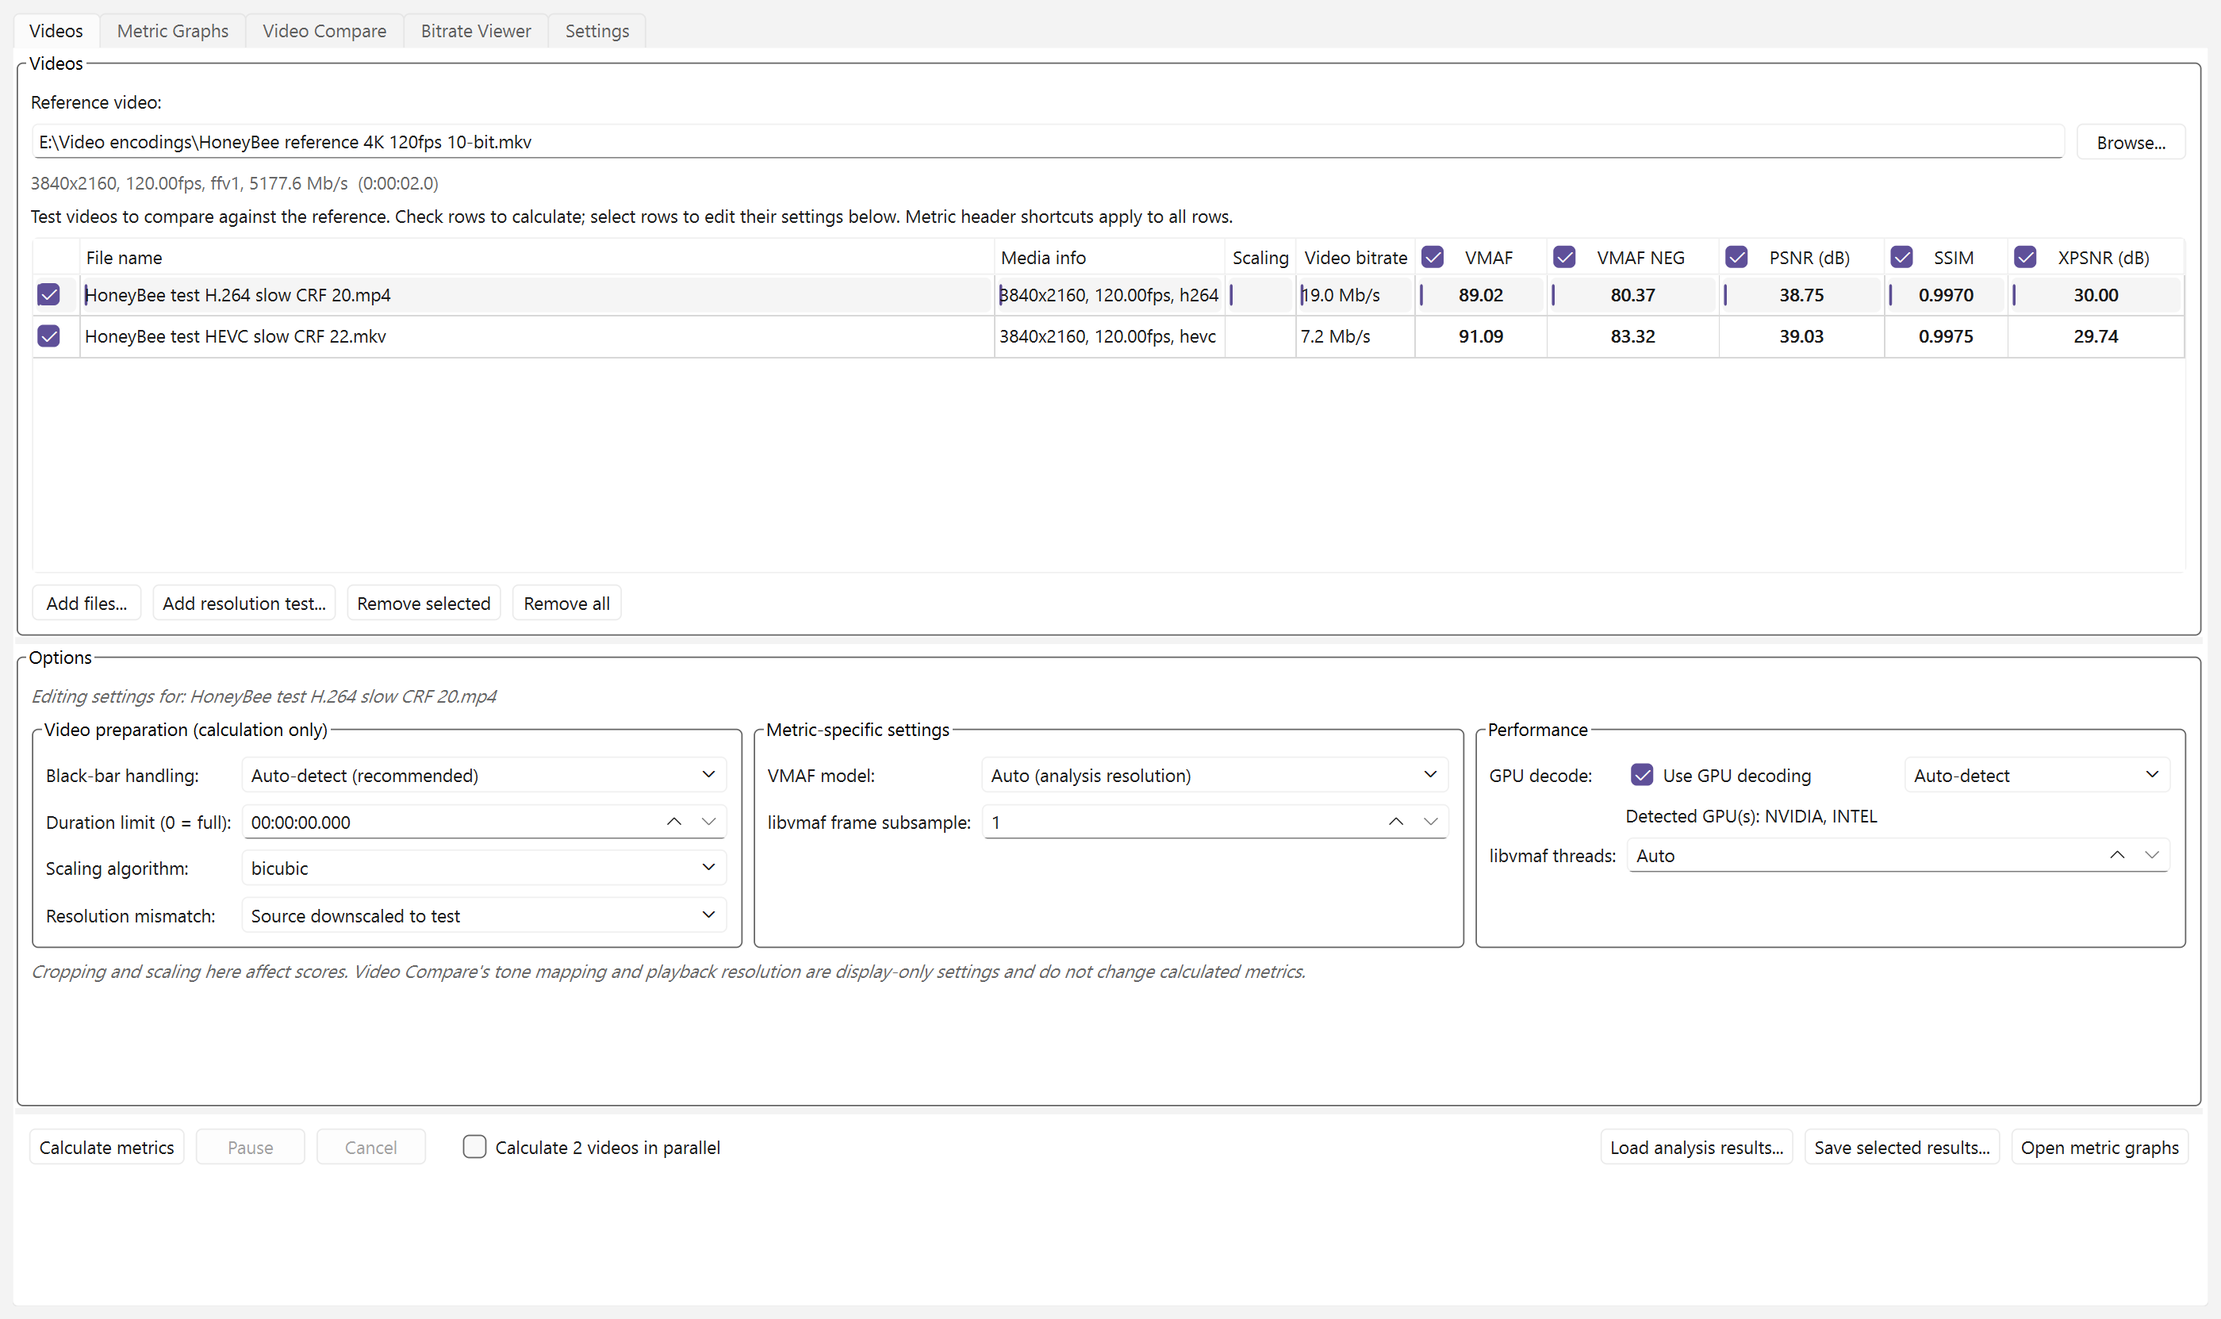
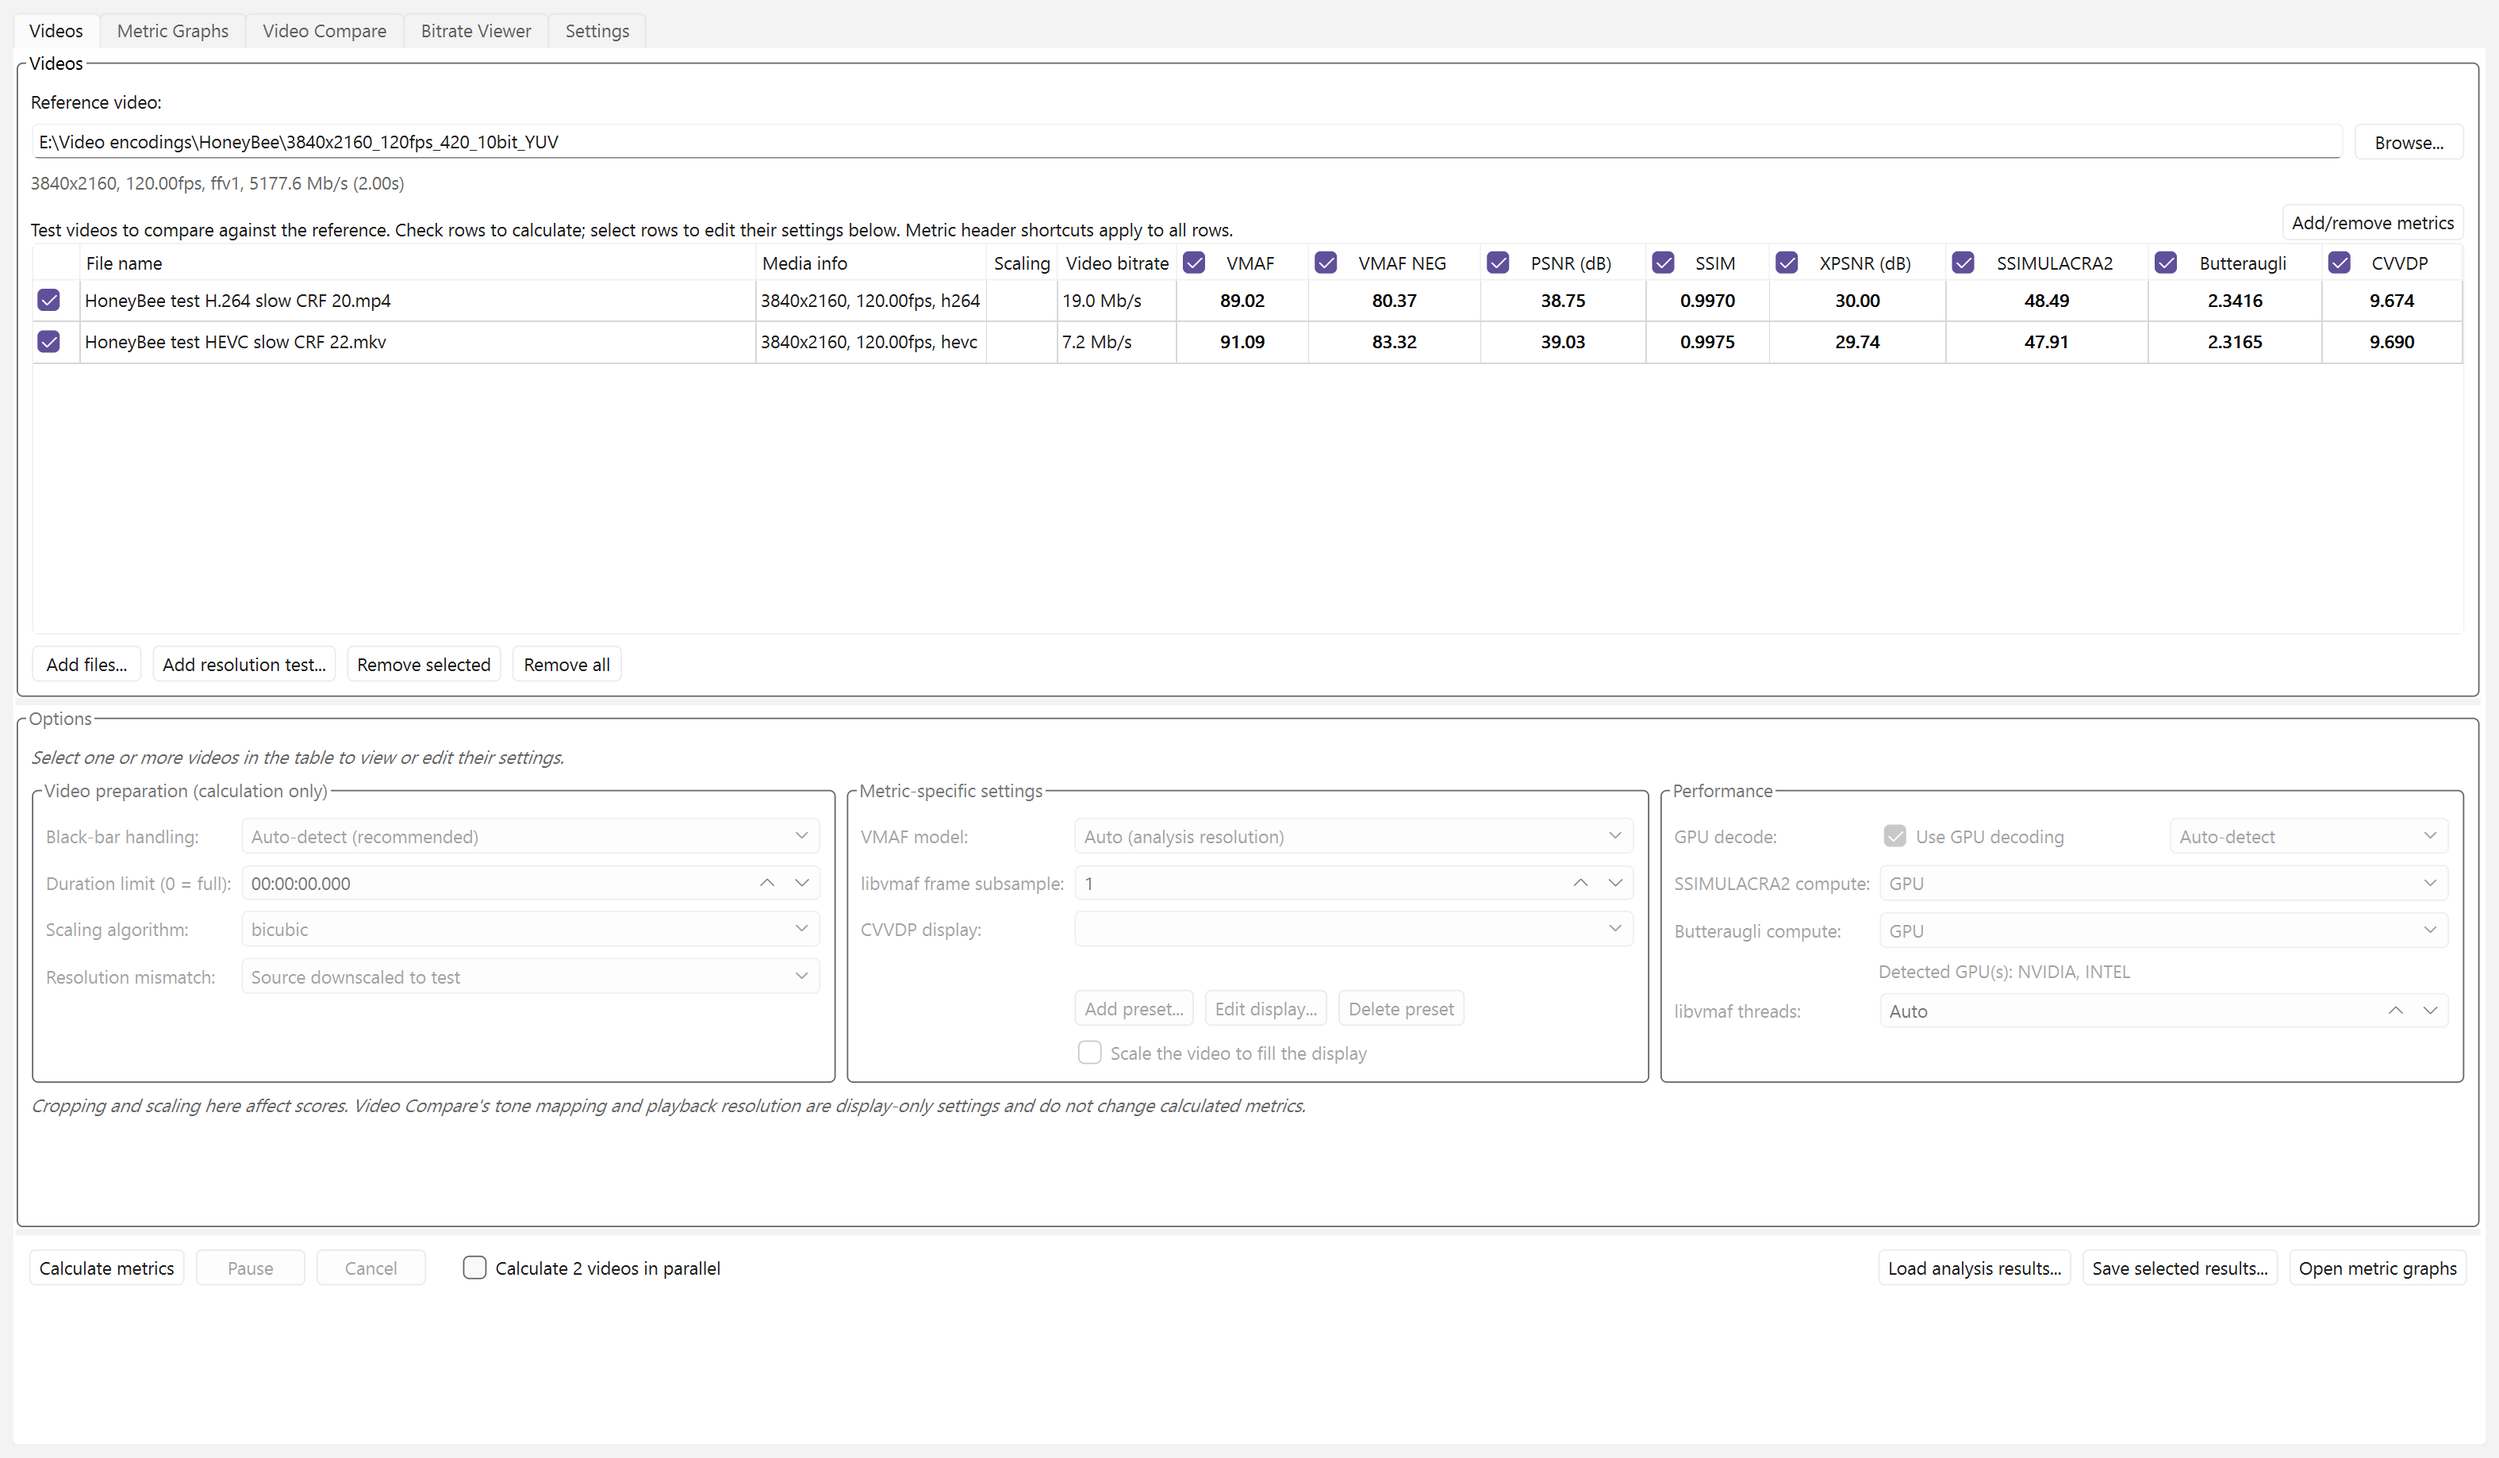
Prepare v1.2 release documentation
Refresh the v1.2 changelog to describe Vship, the three new metrics, CPU fallback behavior, CVVDP per-second scoring, and the metric picker. Update the landing-page screenshots with real HoneyBee results and a graph hover readout while keeping the screenshots local for the release review.

diff --git a/README.md b/README.md
@@ -4,11 +4,13 @@ A Windows desktop app for measuring and comparing video encode quality.
 
 ## Features
 
-- Calculate VMAF, VMAF NEG, PSNR, SSIM, XPSNR, SSIMULACRA2, and Butteraugli
-  for multiple test videos.
+- Calculate VMAF, VMAF NEG, PSNR, SSIM, XPSNR, SSIMULACRA2, Butteraugli, and
+  CVVDP for multiple test videos.
 - Accelerate SSIMULACRA2 and Butteraugli with Vship on supported NVIDIA/AMD
   GPUs; automatically use the bundled libjxl CPU tools when GPU scoring is
   unavailable.
+- Calculate CVVDP on the GPU and configure the modeled display and viewing
+  conditions; inspect its per-second JOD curve and whole-video score.
 - VMAF v0.61 and v1 models for standard, phone, 4K, and HFR viewing scenarios.
 - Compare metric curves, statistics, and per-frame scores.
 - Instantly switch between source and encoded video for visual A/B comparisons, both frame by frame and during playback.
@@ -125,21 +127,12 @@ Third-party components retain their own licenses; see
 
 ## v1.2 changelog
 
-- Added SSIMULACRA2 and Butteraugli. They are calculated on the GPU with the bundled Vship 5.1.1 (NVIDIA CUDA / AMD HIP), or on the CPU with the bundled libjxl 0.12.0 tools, and fall back to the CPU automatically when no supported GPU is found.
-- Added a GPU/CPU choice for SSIMULACRA2 and Butteraugli in the Options panel. The Settings tab can tick either metric by default for new videos, and the GPU/CPU choice is remembered across restarts.
-- GPU SSIMULACRA2/Butteraugli scoring runs at about 73-88 fps for a 4K pair, including VVC test videos.
-- FFmpeg metrics (VMAF, PSNR, SSIM, XPSNR) and SSIMULACRA2/Butteraugli are calculated at the same time for each video. When two videos are calculated in parallel, only one GPU pass runs at a time.
-- Added a warning, with an estimate of the temporary disk space needed, before calculating SSIMULACRA2 or Butteraugli on the CPU for videos longer than 10 minutes.
-- Added an "Add/remove metrics" button to the test-video table's corner to show or hide metric columns. Hidden metrics are not calculated.
-- Adding a metric to a finished video calculates only that metric instead of recalculating the ones already saved.
-- SSIMULACRA2 and Butteraugli show "n/a" on resolution round-trip rows instead of failing the whole row.
-- Butteraugli graphs are drawn with 0 (best) at the top, the statistics table shows its worst frames ("10% High" ... "0.1% High"), and hovering snaps to its worst frames.
-- The hover and Go-to-frame readout in Metric Graphs lists every calculated metric for that frame after a "|".
-- Black-bar detection samples the whole video instead of only the duration limit. It uses at most two decoders across the app: about 2.4 GB of VRAM instead of 6.2 GB for a 4K pair on the GPU.
-- Lowered the CPU used to feed GPU SSIMULACRA2/Butteraugli by about half, with identical scores.
-- Fixed saved SSIMULACRA2/Butteraugli and VMAF scores disappearing when reloading a result whose metrics cover different frame counts.
-- Fixed a video set to CPU showing a cached GPU SSIMULACRA2/Butteraugli score.
-- Fixed GPU SSIMULACRA2/Butteraugli runs hanging when the GPU fails on the first frames; they now fall back to the CPU.
-- Fixed the duration limit applying to only one of the two videos for CPU SSIMULACRA2/Butteraugli.
-- Fixed the Butteraugli graph labelling its zero gridline "-0".
-- Show the application version in the window title: VideoMetricsLab 1.2.
+- Added GPU support for ColorVideo VDP, SSIMULACRA2, and Butteraugli with
+  Vship integration.
+- Added CPU fallback for SSIMULACRA2 and Butteraugli with libjxl. ColorVideo
+  VDP has no CPU fallback.
+- Added CVVDP per-second scores and graphing alongside its whole-video score.
+- Added an Add/remove metrics control to the Videos tab so metric columns can
+  be shown or hidden, and new metrics can be added to completed analyses
+  without recalculating existing results.
+- Included various small under-the-hood bug fixes and reliability improvements.

diff --git a/CHANGELOG.md b/CHANGELOG.md
@@ -2,46 +2,15 @@
 
 ## v1.2
 
-- Added SSIMULACRA2 and Butteraugli. They are calculated on the GPU with the
-  bundled Vship 5.1.1 (NVIDIA CUDA / AMD HIP), or on the CPU with the bundled
-  libjxl 0.12.0 tools, and fall back to the CPU automatically when no supported
-  GPU is found.
-- Added a GPU/CPU choice for SSIMULACRA2 and Butteraugli in the Options panel.
-  The Settings tab can tick either metric by default for new videos, and the
-  GPU/CPU choice is remembered across restarts.
-- GPU SSIMULACRA2/Butteraugli scoring runs at about 73-88 fps for a 4K pair,
-  including VVC test videos.
-- FFmpeg metrics (VMAF, PSNR, SSIM, XPSNR) and SSIMULACRA2/Butteraugli are
-  calculated at the same time for each video. When two videos are calculated in
-  parallel, only one GPU pass runs at a time.
-- Added a warning, with an estimate of the temporary disk space needed, before
-  calculating SSIMULACRA2 or Butteraugli on the CPU for videos longer than 10
-  minutes.
-- Added an "Add/remove metrics" button to the test-video table's corner to show
-  or hide metric columns. Hidden metrics are not calculated.
-- Adding a metric to a finished video calculates only that metric instead of
-  recalculating the ones already saved.
-- SSIMULACRA2 and Butteraugli show "n/a" on resolution round-trip rows instead
-  of failing the whole row.
-- Butteraugli graphs are drawn with 0 (best) at the top, the statistics table
-  shows its worst frames ("10% High" ... "0.1% High"), and hovering snaps to its
-  worst frames.
-- The hover and Go-to-frame readout in Metric Graphs lists every calculated
-  metric for that frame after a "|".
-- Black-bar detection samples the whole video instead of only the duration
-  limit. It uses at most two decoders across the app: about 2.4 GB of VRAM
-  instead of 6.2 GB for a 4K pair on the GPU.
-- Lowered the CPU used to feed GPU SSIMULACRA2/Butteraugli by about half, with
-  identical scores.
-- Fixed saved SSIMULACRA2/Butteraugli and VMAF scores disappearing when
-  reloading a result whose metrics cover different frame counts.
-- Fixed a video set to CPU showing a cached GPU SSIMULACRA2/Butteraugli score.
-- Fixed GPU SSIMULACRA2/Butteraugli runs hanging when the GPU fails on the first
-  frames; they now fall back to the CPU.
-- Fixed the duration limit applying to only one of the two videos for CPU
-  SSIMULACRA2/Butteraugli.
-- Fixed the Butteraugli graph labelling its zero gridline "-0".
-- Show the application version in the window title: VideoMetricsLab 1.2.
+- Added GPU support for ColorVideo VDP, SSIMULACRA2, and Butteraugli with
+  Vship integration.
+- Added CPU fallback for SSIMULACRA2 and Butteraugli with libjxl. ColorVideo
+  VDP has no CPU fallback.
+- Added CVVDP per-second scores and graphing alongside its whole-video score.
+- Added an Add/remove metrics control to the Videos tab so metric columns can
+  be shown or hidden, and new metrics can be added to completed analyses
+  without recalculating existing results.
+- Included various small under-the-hood bug fixes and reliability improvements.
 
 ## v1.1.1
 
